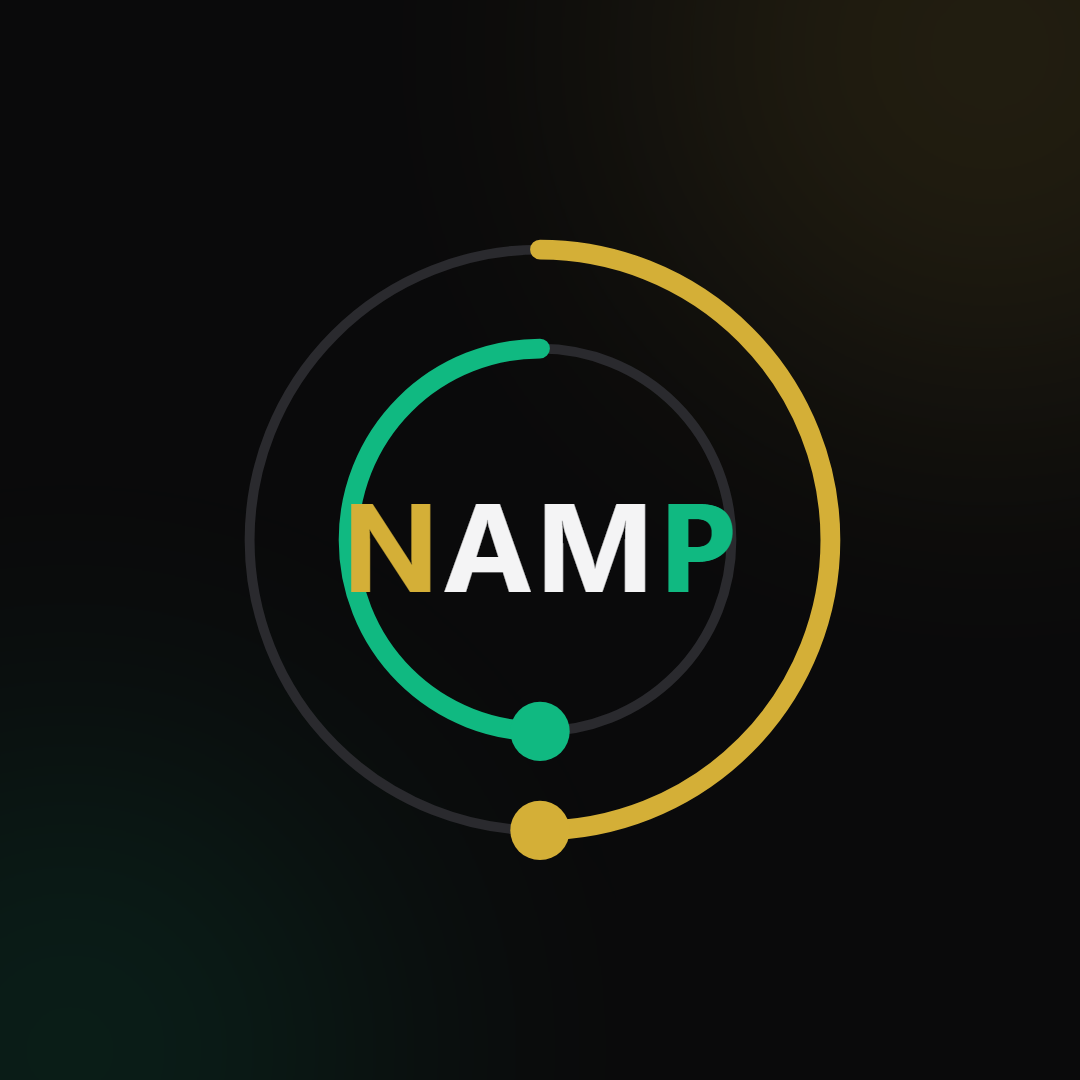
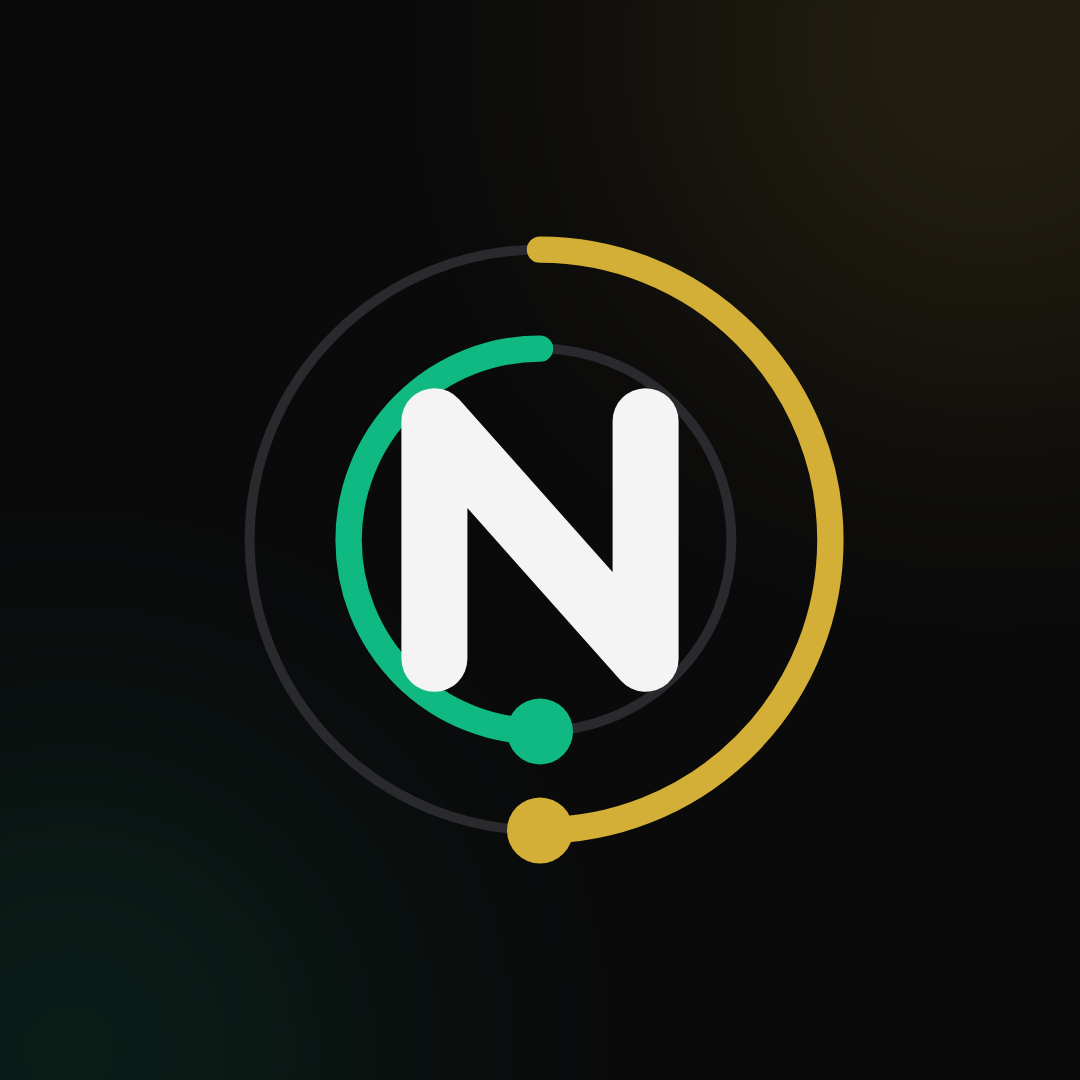
NAMP: isotipo rediseñado (monograma N) — kit v2 en Outputs
Generated with [Devin](https://devin.ai)

diff --git a/02_Outputs/NAMP/2026-11-06-media-kit-instagram/plantillas/plantilla-post.html b/02_Outputs/NAMP/2026-11-06-media-kit-instagram/plantillas/plantilla-post.html
@@ -177,15 +177,11 @@
         <svg viewBox="0 0 200 200" fill="none" stroke-linecap="round" stroke-linejoin="round">
           <circle cx="100" cy="100" r="88" stroke="#2a2a2e" stroke-width="3" />
           <circle cx="100" cy="100" r="58" stroke="#2a2a2e" stroke-width="3" />
-          <path d="M100 12a88 88 0 0 1 0 176" stroke="#d4af37" stroke-width="6" />
-          <circle cx="100" cy="188" r="9" fill="#d4af37" />
-          <path d="M100 42a58 58 0 0 0 0 116" stroke="#10b981" stroke-width="6" />
-          <circle cx="100" cy="158" r="9" fill="#10b981" />
-          <text x="100" y="100" text-anchor="middle" dominant-baseline="central"
-                font-family="Inter, 'Segoe UI', system-ui, sans-serif"
-                font-size="52" font-weight="700" letter-spacing="2">
-            <tspan fill="#d4af37">N</tspan><tspan fill="#f4f4f5">AM</tspan><tspan fill="#10b981">P</tspan>
-          </text>
+          <path d="M100 12a88 88 0 0 1 0 176" stroke="#d4af37" stroke-width="8" />
+          <circle cx="100" cy="188" r="10" fill="#d4af37" />
+          <path d="M100 42a58 58 0 0 0 0 116" stroke="#10b981" stroke-width="8" />
+          <circle cx="100" cy="158" r="10" fill="#10b981" />
+          <path d="M68 136V64l64 72V64" stroke="#f4f4f5" stroke-width="20" />
         </svg>
         <div>
           <div class="word">NAMP<span> Ingeniería</span></div>

diff --git a/02_Outputs/NAMP/2026-11-06-media-kit-instagram/post-01-lanzamiento.html b/02_Outputs/NAMP/2026-11-06-media-kit-instagram/post-01-lanzamiento.html
@@ -196,15 +196,11 @@
         <svg viewBox="0 0 200 200" fill="none" stroke-linecap="round" stroke-linejoin="round">
           <circle cx="100" cy="100" r="88" stroke="#2a2a2e" stroke-width="3" />
           <circle cx="100" cy="100" r="58" stroke="#2a2a2e" stroke-width="3" />
-          <path d="M100 12a88 88 0 0 1 0 176" stroke="#d4af37" stroke-width="6" />
-          <circle cx="100" cy="188" r="9" fill="#d4af37" />
-          <path d="M100 42a58 58 0 0 0 0 116" stroke="#10b981" stroke-width="6" />
-          <circle cx="100" cy="158" r="9" fill="#10b981" />
-          <text x="100" y="100" text-anchor="middle" dominant-baseline="central"
-                font-family="Inter, 'Segoe UI', system-ui, sans-serif"
-                font-size="38" font-weight="700" letter-spacing="1">
-            <tspan fill="#d4af37">N</tspan><tspan fill="#f4f4f5">AM</tspan><tspan fill="#10b981">P</tspan>
-          </text>
+          <path d="M100 12a88 88 0 0 1 0 176" stroke="#d4af37" stroke-width="8" />
+          <circle cx="100" cy="188" r="10" fill="#d4af37" />
+          <path d="M100 42a58 58 0 0 0 0 116" stroke="#10b981" stroke-width="8" />
+          <circle cx="100" cy="158" r="10" fill="#10b981" />
+          <path d="M68 136V64l64 72V64" stroke="#f4f4f5" stroke-width="20" />
         </svg>
         <div>
           <div class="word">NAMP<span> Ingeniería</span></div>

diff --git a/02_Outputs/NAMP/2026-11-06-media-kit-instagram/plantillas/plantilla-historia.html b/02_Outputs/NAMP/2026-11-06-media-kit-instagram/plantillas/plantilla-historia.html
@@ -143,15 +143,11 @@
         <svg viewBox="0 0 200 200" fill="none" stroke-linecap="round" stroke-linejoin="round">
           <circle cx="100" cy="100" r="88" stroke="#2a2a2e" stroke-width="3" />
           <circle cx="100" cy="100" r="58" stroke="#2a2a2e" stroke-width="3" />
-          <path d="M100 12a88 88 0 0 1 0 176" stroke="#d4af37" stroke-width="6" />
-          <circle cx="100" cy="188" r="9" fill="#d4af37" />
-          <path d="M100 42a58 58 0 0 0 0 116" stroke="#10b981" stroke-width="6" />
-          <circle cx="100" cy="158" r="9" fill="#10b981" />
-          <text x="100" y="100" text-anchor="middle" dominant-baseline="central"
-                font-family="Inter, 'Segoe UI', system-ui, sans-serif"
-                font-size="38" font-weight="700" letter-spacing="1">
-            <tspan fill="#d4af37">N</tspan><tspan fill="#f4f4f5">AM</tspan><tspan fill="#10b981">P</tspan>
-          </text>
+          <path d="M100 12a88 88 0 0 1 0 176" stroke="#d4af37" stroke-width="8" />
+          <circle cx="100" cy="188" r="10" fill="#d4af37" />
+          <path d="M100 42a58 58 0 0 0 0 116" stroke="#10b981" stroke-width="8" />
+          <circle cx="100" cy="158" r="10" fill="#10b981" />
+          <path d="M68 136V64l64 72V64" stroke="#f4f4f5" stroke-width="20" />
         </svg>
         <div class="word">NAMP<span> Ingeniería</span></div>
       </div>

diff --git a/02_Outputs/NAMP/2026-11-06-media-kit-instagram/avatar-instagram.html b/02_Outputs/NAMP/2026-11-06-media-kit-instagram/avatar-instagram.html
@@ -63,15 +63,11 @@
     <svg class="mark" viewBox="0 0 200 200" fill="none" stroke-linecap="round" stroke-linejoin="round">
       <circle cx="100" cy="100" r="88" stroke="#2a2a2e" stroke-width="3" />
       <circle cx="100" cy="100" r="58" stroke="#2a2a2e" stroke-width="3" />
-      <path d="M100 12a88 88 0 0 1 0 176" stroke="#d4af37" stroke-width="6" />
-      <circle cx="100" cy="188" r="9" fill="#d4af37" />
-      <path d="M100 42a58 58 0 0 0 0 116" stroke="#10b981" stroke-width="6" />
-      <circle cx="100" cy="158" r="9" fill="#10b981" />
-      <text x="100" y="100" text-anchor="middle" dominant-baseline="central"
-            font-family="Inter, 'Segoe UI', system-ui, sans-serif"
-            font-size="38" font-weight="700" letter-spacing="1">
-        <tspan fill="#d4af37">N</tspan><tspan fill="#f4f4f5">AM</tspan><tspan fill="#10b981">P</tspan>
-      </text>
+      <path d="M100 12a88 88 0 0 1 0 176" stroke="#d4af37" stroke-width="8" />
+      <circle cx="100" cy="188" r="10" fill="#d4af37" />
+      <path d="M100 42a58 58 0 0 0 0 116" stroke="#10b981" stroke-width="8" />
+      <circle cx="100" cy="158" r="10" fill="#10b981" />
+      <path d="M68 136V64l64 72V64" stroke="#f4f4f5" stroke-width="20" />
     </svg>
   </div>
 </body>

diff --git a/03_Proyectos/NAMP/log.md b/03_Proyectos/NAMP/log.md
@@ -129,3 +129,10 @@ Bitácora narrativa **append-only**: las entradas nuevas van al final, nunca se 
 - **PENDIENTE** — Merge de `feat/media-kit-instagram` a `main` (PR: github.com/Nicolasmp92/namp-ingenieria/pull/new/feat/media-kit-instagram). Decidir qué hacer con `Desarrollo/NYEinformatica` (clon obsoleto, probablemente eliminar tras confirmar que no tiene trabajo único). Handle de Instagram sigue sin definir.
 - **HECHO** — Roadmap de Instagram creado en [[Roadmap - Instagram]]: fases 0 (handle/correo/tipo cuenta) → 1 (perfil, avatar del kit, bio, contacto) → 2 (3 posts semilla + destacadas) → 3 (Meta Business Suite, cadencia). Enlazado desde el MOC; MOC actualizado con la ruta del repo en este PC.
 - **HECHO** — Roadmap Instagram actualizado: la cuenta ya existe con contenido antiguo → nueva Fase 1 de limpieza (archivar posts masivo desde "Tu actividad", historias activas/destacadas/archivadas, etiquetados, seguidos/bio). Fases renumeradas 0→4.
+
+## 2026-11-06 (2) — Isotipo rediseñado: monograma N + arcos
+
+- **DECISIÓN** — El mark anterior (anillos + sigla "NAMP" en texto) era flojo: wordmark en miniatura sin símbolo propio, dependiente de fuente, ilegible a 16px. Nuevo isotipo: **N geométrica en trazo puro** (path `M68 136V64l64 72V64`, stroke 20) dentro de los arcos orbitales de marca — conserva el ADN del hero, identifica sin texto y no depende de fuentes.
+- **HECHO** — Web actualizada en la misma rama `feat/media-kit-instagram` (`ddc26d1`): isotipo en el header junto al wordmark, hero muestra la N monograma dentro de los anillos animados (reemplaza las 4 letras `hero__logo-letter`), `favicon.svg` nuevo (mark sobre carbón, en `index.html` antes del .ico fallback), `og-cover.svg`/`.png` rediseñado como banner (mark derecha + wordmark/tagline izquierda). Build OK, tests 4/4, home verificada a 1400px.
+- **HECHO** — Kit `instagram/` regenerado con el mark nuevo en todas las piezas (avatar, post-01, plantillas) y sincronizado a `02_Outputs/NAMP/2026-11-06-media-kit-instagram/`. README del kit actualizado (reglas: N en color texto, arcos dorado-afuera/esmeralda-adentro).
+- **RIESGO resuelto** — El mark ya no depende de fuente instalada (era deuda del README v1); solo los wordmarks horizontales siguen con texto.

diff --git a/02_Outputs/NAMP/2026-11-06-media-kit-instagram/README.md b/02_Outputs/NAMP/2026-11-06-media-kit-instagram/README.md
@@ -19,10 +19,12 @@ dependencias: se edita texto y se exporta a PNG con `render.ps1`.
 
 ## Marca
 
-- **Isotipo**: dos anillos orbitales (arco dorado exterior, arco esmeralda
-  interior, cada uno con su nodo) + sigla `NAMP` — N dorado, AM texto,
-  P esmeralda. Es el mismo grafismo del hero del sitio; no redibujarlo.
-- **Wordmark**: `NAMP` bold + ` Ingeniería` en dorado (como el header).
+- **Isotipo**: monograma **N** geométrica en trazo puro (path propio, sin
+  fuente) dentro de dos arcos orbitales (dorado exterior, esmeralda
+  interior, cada uno con su nodo) sobre anillos tenues. Mismo grafismo
+  del hero y del header del sitio; no redibujarlo.
+- **Wordmark**: `NAMP` bold con N dorado / AM neutro / P esmeralda +
+  ` Ingeniería` o `INGENIERÍA` en dorado (como el header).
 - **Tagline**: «Ingeniería de software a medida».
 
 ## Paleta
@@ -45,8 +47,9 @@ tracking -2px; eyebrows en mayúsculas con tracking amplio.
 ## Reglas de uso
 
 - Isotipo solo sobre carbón/oscuro o con la variante `-light` en claro.
-- No cambiar el orden de colores de la sigla (N dorado / AM neutro / P esmeralda).
-- Dejar aire alrededor del isotipo ≥ alto de una letra de la sigla.
+- La N siempre en color texto del tema; los arcos siempre dorado afuera
+  y esmeralda adentro — no invertir ni recolorear.
+- Dejar aire alrededor del isotipo ≥ el ancho del trazo de la N.
 - En historias, respetar la zona segura (250px arriba y abajo sin texto).
 - No usar otros colores de acento: dorado = lujo/CTA, esmeralda = innovación/eyebrow.
 
@@ -65,5 +68,6 @@ Para un post nuevo: copiar `plantillas/plantilla-post.html` a
 
 - [ ] Handle de Instagram de NAMP sin definir — agregar `@handle` en el
       footer de las piezas cuando exista.
-- [ ] Convertir textos de los SVG a outlines si el kit sale a terceros
-      (hoy dependen de Inter/Segoe instalada).
+- [ ] Convertir los wordmarks (texto "NAMP"/"INGENIERÍA") a outlines si
+      el kit sale a terceros (hoy dependen de Inter/Segoe instalada);
+      el isotipo ya es path puro y no depende de fuentes.

diff --git a/log.md b/log.md
@@ -77,3 +77,4 @@ Bitácora maestra append-only. Resume lo relevante entre sesiones y apunta al lo
 - **HECHO** — Sconect: contrato n8n completado en backend (3 endpoints/cláusulas nuevas, commit `ead323d`) + spec del recepcionista WhatsApp en su carpeta. Maven 3.9.9 portable instalado en PC casa (~/tools); falta Flutter. Pendiente: decisión provider WhatsApp + deploy sconect al VPS (2026-11-05).
 - 2026-11-05 — Sconect: dev local E2E + demo pública desplegada en el VPS (`sconect.200.141.25.56.sslip.io`). Punto de retomada en `03_Proyectos/Sconect/log.md`; pendiente del usuario: DNS `sconect.namp.cl` en NIC Chile.
 - **HECHO** — NAMP media kit Instagram (2026-11-06): `namp-ingenieria` clonado fresco en `Desarrollo/`; en rama `feat/media-kit-instagram` → `instagram/brand/` (isotipo SVG dark/light extraído del hero real), avatar 1080×1080, post lanzamiento **regenerado con datos reales** (`namp.cl`/`contacto@namp.cl`, resuelve riesgo de placeholders), plantillas feed/historia/destacada + previews, `render.ps1` y README del kit. Pendientes: merge a `main`, definir handle IG, decidir suerte del clon obsoleto `NYEinformatica`. Detalle: [[03_Proyectos/NAMP/log]].
+- **HECHO** — NAMP isotipo rediseñado (2026-11-06): el mark "anillos+NAMP texto" era flojo → nueva monograma N en trazo puro dentro de los arcos orbitales (dorado/esmeralda), sin dependencia de fuente y legible a 16px. Propagado a la web (header, hero, favicon.svg, og-cover banner) y a todo el kit IG; commit `ddc26d1` en `feat/media-kit-instagram`, build+tests OK, verificado visual. Kit v2 en [[02_Outputs/NAMP]]. Detalle: [[03_Proyectos/NAMP/log]].

diff --git a/02_Outputs/log.md b/02_Outputs/log.md
@@ -20,3 +20,4 @@ Entradas tipificadas: ENTREGADO / BORRADOR / DECISIÓN.
 - **BORRADOR** — Media kit Instagram NAMP en repo satélite `namp-ingenieria`, rama `feat/media-kit-instagram`: `instagram/` (brand/*.svg, avatar PNG, post-01-lanzamiento PNG con datos reales, plantillas feed/historia/destacada + previews, render.ps1, README del kit). Publicación pendiente: falta merge a `main` y handle de IG.
 - **DECISIÓN** — Corrección del usuario: los entregables sí se copian físicamente a `02_Outputs/<proyecto>/` (la regla anterior de "no duplicar" queda solo como referencia cruzada; el vault es la fuente de entrega). Fuente editable espejo sigue en el repo satélite.
 - **ENTREGADO** — `NAMP/2026-11-06-media-kit-instagram/`: media kit completo — isotipo SVG (mark + horizontal dark/light), avatar PNG, post lanzamiento PNG con datos reales, plantillas feed/historia/destacada + previews, render.ps1, README. Espejo en `namp-ingenieria` rama `feat/media-kit-instagram` (pendiente merge). Falta handle IG.
+- **ENTREGADO (v2)** — `NAMP/2026-11-06-media-kit-instagram/` resincronizado: isotipo rediseñado (monograma N + arcos, sin fuentes) propagado a logos SVG, avatar, post-01 y plantillas. El mismo mark quedó integrado en la web (header/hero/favicon/og-cover) en `feat/media-kit-instagram` → `ddc26d1`.
